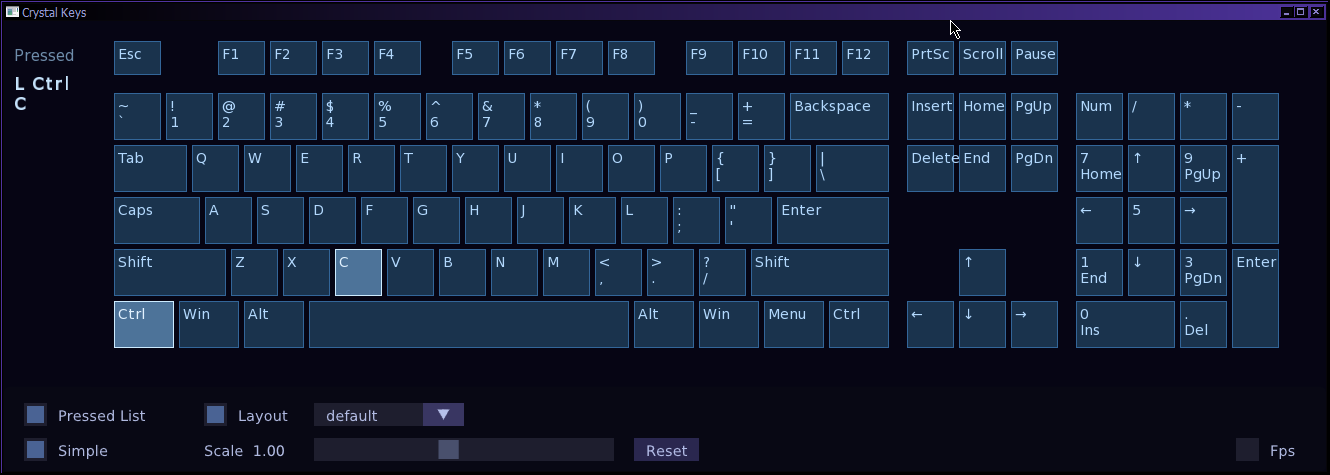
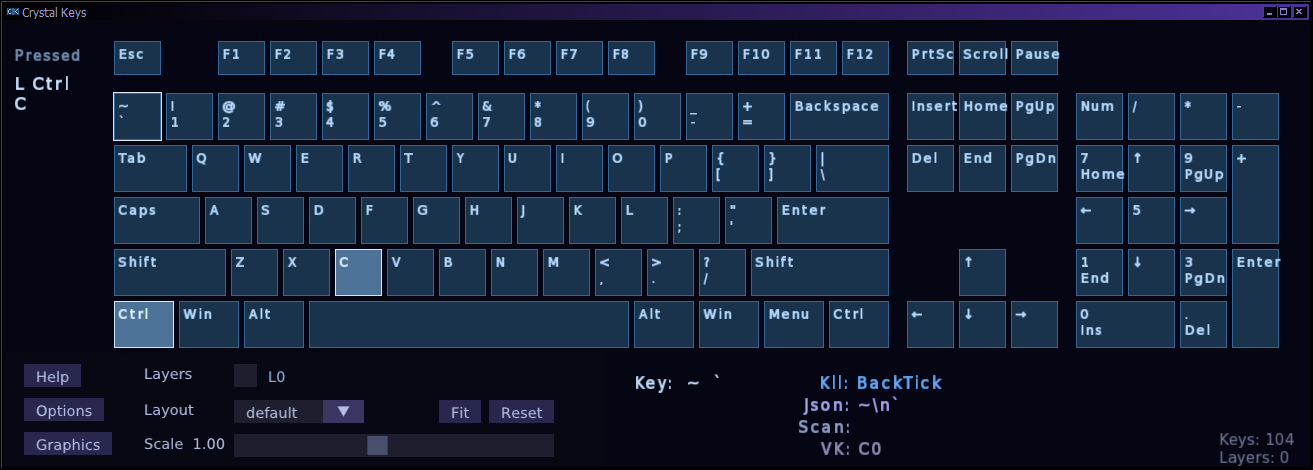
added screenshot2.png

diff --git a/README.md b/README.md
@@ -18,11 +18,13 @@ Windows Keyboard Hook is used to get key states (Virtual Key codes).
 were just demo programs for using [SFML](https://github.com/SFML/SFML), [ImGui](https://github.com/ocornut/imgui) and [TinyXML-2](https://github.com/leethomason/tinyxml2).  
 And can serve as **tutorials or starting projects** for similar applications, for both GNU/Linux and Windows.  
 
+
 ## Layouts
 
 Program reads custom keyboard layouts, from **JSON** files (using jsmn parser library).  
 Which can be created, edited and saved from this web based editor: www.keyboard-layout-editor.com  
 The default.json layout is the ANSI 104 preset.  
+
 All `*.json` files located in `data` directory will be available in Layout combobox.  
 Program supports only basic rectangular layouts, no rotation or styling.  
 Additionally, I added own commands to json, which replace key names `"n:Name"` and assign scan code `"s:12"`.  
@@ -31,6 +33,10 @@ Additionally, I added own commands to json, which replace key names `"n:Name"` a
 
 Since version 1.0 it also reads **KLL** files ([specification](https://input.club/kll/), [repo](https://github.com/kiibohd/kll)).  
 Basic parsing is done to get layer key bindings (mapping).  
+
+For e.g. `ck3` keyboard the base map is `defaultMapCK3.kll`.  
+All `ck3layer*.kll` files in `data` dir are read for layers. Maximum number is 8.  
+
 
 ## Compiling
 
@@ -46,6 +52,11 @@ After this the program should build.
 
 In sources there already are: [TinyXML2](https://github.com/leethomason/tinyxml2), [jsmn](https://github.com/zserge/jsmn), ImGui with ImGui-SFML and [Native File Dialog](https://github.com/mlabbe/nativefiledialog).  
 
-## Screenshot
+
+## Screenshot with default layout
 
 ![](https://raw.githubusercontent.com/cryham/ckeys/master/screenshot.png)
+
+## Screenshot with layers
+
+![](https://raw.githubusercontent.com/cryham/ckeys/master/screenshot2.png)
